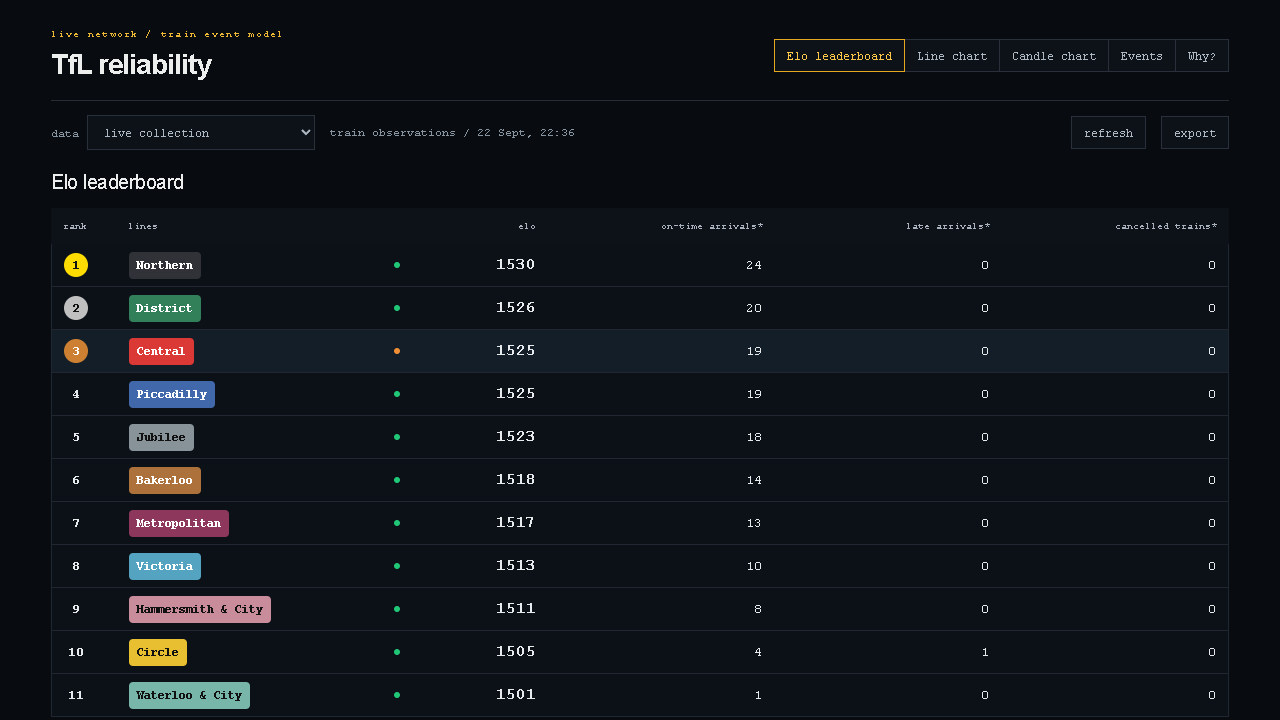
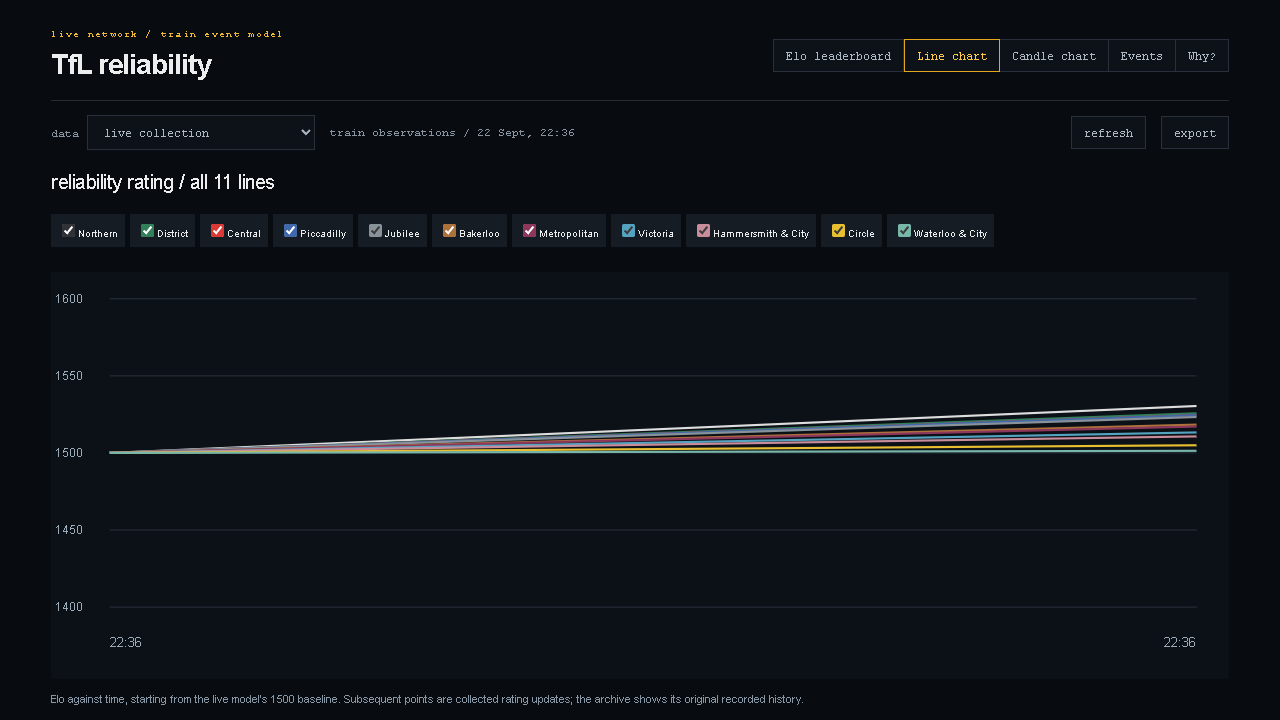
Lead with the eleven-line reliability history chart and retain the ranking below

diff --git a/examples/portfolio/index.html b/examples/portfolio/index.html
@@ -1,1 +1,1 @@
-<!doctype html><html lang="en"><meta charset="utf-8"><meta name="viewport" content="width=device-width,initial-scale=1"><title>TfL Train Event Elo Dashboard</title><link rel="stylesheet" href="style.css"><body><main><header><div><p class="eyebrow">live network / train event model</p><h1>TfL reliability</h1></div><nav aria-label="Dashboard views"><button class="active" data-view="leaderboard">Elo leaderboard</button><button data-view="history">Line chart</button><button data-view="candles">Candle chart</button><button data-view="events">Events</button><button data-view="why">Why?</button></nav></header><div class="toolbar"><label>data <select id="dataset"><option value="live">live collection</option><option value="archive">original hackathon archive</option></select></label><span id="updated">loading real observations...</span><button id="refresh">refresh</button><button id="download">export</button></div><section id="leaderboard" class="view"><h2>Elo leaderboard</h2><div class="board-heading"><span>rank</span><span>lines</span><span>elo</span><span>on-time <em>arrivals*</em></span><span>late <em>arrivals*</em></span><span>cancelled <em>trains*</em></span></div><div id="lines"></div><p class="legend"><i class="good"></i> Good service <i class="minor"></i> Minor delays <i class="delay"></i> Delays <i class="bad"></i> Severe delays / cancellations</p><p class="note" id="notice"></p></section><section id="history" class="view" hidden><h2>Line chart</h2><div id="line-toggles"></div><div id="history-chart"></div><p class="note">Recorded Elo against time. Only collected observations are connected.</p></section><section id="candles" class="view" hidden><h2>Candle chart</h2><label>line <select id="candle-line"></select></label><div id="candle-chart"></div><p class="note">Five-minute buckets: open, high, low and close of the observed ratings. Empty periods have no candle.</p></section><section id="events" class="view" hidden><h2>Train events</h2><div id="event-list"></div></section><section id="why" class="view" hidden><h2>Why score the Tube?</h2><p>Each line earns or loses rating from observed train-stop outcomes. The original hackathon dashboard compared arrivals, late arrivals and inferred cancellations, with historical line and candle charts.</p><p>The live collector samples TfL predictions three times, 20 seconds apart, every ten minutes. An arrival estimate requires at least two sightings and a prediction within 30 seconds of the stop. A late estimate means the ETA slipped over 60 seconds since its first sighting. These are sampled prediction-based estimates, not confirmed train movements or official punctuality figures.</p><p>Disappearing predictions are not sufficient evidence of cancellation. The live cancellation column stays zero unless supported by a confirmed source. The original archive retains the original inferred cancellation counts and its historical model.</p><p>The live model uses the original event gain/loss function, with cubic gravity toward 1500 and hard bounds of 100 and 3500. Peak-time outcomes receive more weight. It is Elo-style, not a claim of standard zero-sum chess Elo.</p><p><a href="https://devpost.com/software/tfl-elo-tracker">Original hackathon project</a> ? <a href="https://github.com/bento-boxing/Quantihack2026project/tree/tfl-live-elo">Original team source</a> ? <a href="data/health.json">automated audit</a></p></section><footer><a href="https://github.com/LolStar123/tfl-reliability">source code</a><a href="https://atul-kanodia-fieldnotes.atulswaggalicious.chatgpt.site">atul's projects</a><span id="connection"></span></footer></main><script type="module" src="app.mjs"></script></body></html>
+<!doctype html><html lang="en"><meta charset="utf-8"><meta name="viewport" content="width=device-width,initial-scale=1"><title>TfL Train Event Elo Dashboard</title><link rel="stylesheet" href="style.css"><body><main><header><div><p class="eyebrow">live network / train event model</p><h1>TfL reliability</h1></div><nav aria-label="Dashboard views"><button class="active" data-view="leaderboard">Elo leaderboard</button><button data-view="history">Line chart</button><button data-view="candles">Candle chart</button><button data-view="events">Events</button><button data-view="why">Why?</button></nav></header><div class="toolbar"><label>data <select id="dataset"><option value="live">live collection</option><option value="archive">original hackathon archive</option></select></label><span id="updated">loading real observations...</span><button id="refresh">refresh</button><button id="download">export</button></div><section id="leaderboard" class="view"><h2>Elo leaderboard</h2><div class="board-heading"><span>rank</span><span>lines</span><span>elo</span><span>on-time <em>arrivals*</em></span><span>late <em>arrivals*</em></span><span>cancelled <em>trains*</em></span></div><div id="lines"></div><p class="legend"><i class="good"></i> Good service <i class="minor"></i> Minor delays <i class="delay"></i> Delays <i class="bad"></i> Severe delays / cancellations</p><p class="note" id="notice"></p></section><section id="history" class="view" hidden><h2>reliability rating / all 11 lines</h2><div id="line-toggles"></div><div id="history-chart"></div><p class="note">Elo against time, starting from the live model's 1500 baseline. Subsequent points are collected rating updates; the archive shows its original recorded history.</p></section><section id="candles" class="view" hidden><h2>Candle chart</h2><label>line <select id="candle-line"></select></label><div id="candle-chart"></div><p class="note">Five-minute buckets: open, high, low and close of the observed ratings. Empty periods have no candle.</p></section><section id="events" class="view" hidden><h2>Train events</h2><div id="event-list"></div></section><section id="why" class="view" hidden><h2>Why score the Tube?</h2><p>Each line earns or loses rating from observed train-stop outcomes. The original hackathon dashboard compared arrivals, late arrivals and inferred cancellations, with historical line and candle charts.</p><p>The live collector samples TfL predictions three times, 20 seconds apart, every ten minutes. An arrival estimate requires at least two sightings and a prediction within 30 seconds of the stop. A late estimate means the ETA slipped over 60 seconds since its first sighting. These are sampled prediction-based estimates, not confirmed train movements or official punctuality figures.</p><p>Disappearing predictions are not sufficient evidence of cancellation. The live cancellation column stays zero unless supported by a confirmed source. The original archive retains the original inferred cancellation counts and its historical model.</p><p>The live model uses the original event gain/loss function, with cubic gravity toward 1500 and hard bounds of 100 and 3500. Peak-time outcomes receive more weight. It is Elo-style, not a claim of standard zero-sum chess Elo.</p><p><a href="https://devpost.com/software/tfl-elo-tracker">Original hackathon project</a> ? <a href="https://github.com/bento-boxing/Quantihack2026project/tree/tfl-live-elo">Original team source</a> ? <a href="data/health.json">automated audit</a></p></section><footer><a href="https://github.com/LolStar123/tfl-reliability">source code</a><a href="https://atul-kanodia-fieldnotes.atulswaggalicious.chatgpt.site">atul's projects</a><span id="connection"></span></footer></main><script type="module" src="app.mjs"></script></body></html>

diff --git a/tools/browser_audit.py b/tools/browser_audit.py
@@ -17,12 +17,14 @@ try:
   page.wait_for_function('window.__tfl?.ready')
   page.wait_for_function('!document.querySelector("#refresh").disabled')
   assert page.locator('.line').count()==11
+  assert page.locator('#history-chart polyline').count()==11
   assert page.evaluate('__tfl.rows.every(r=>r.elo>=100&&r.elo<=3500)')
   page.locator('#dataset').select_option('archive')
   page.locator('[data-view="history"]').click()
   assert page.locator('#history-chart polyline').count()==11
   page.locator('#line-toggles input').first.uncheck()
   assert page.locator('#history-chart polyline').count()==10
+  page.locator('#line-toggles input').first.check()
   page.locator('[data-view="candles"]').click()
   assert page.locator('#candle-chart rect').count()>1
   page.locator('#candle-line').select_option('victoria')
@@ -31,10 +33,12 @@ try:
   with page.expect_download() as dl:page.locator('#download').click()
   assert dl.value.suggested_filename.endswith('.csv')
   page.set_viewport_size({'width':1280,'height':720})
-  assert page.locator('.line').last.bounding_box()['y']+page.locator('.line').last.bounding_box()['height']<720,'all lines must fit landing viewport'
+  page.locator('[data-view="history"]').click()
+  assert page.locator('#history').is_visible()
+  assert page.locator('#history-chart').bounding_box()['y']<450,'history chart must be the landing view'
   page.screenshot(path=str(ROOT/'examples/portfolio/preview.png'))
   page.set_viewport_size({'width':390,'height':844});assert page.evaluate('document.documentElement.scrollWidth<=innerWidth+1')
-  assert page.locator('.line').last.bounding_box()['y']+page.locator('.line').last.bounding_box()['height']<844,'all lines must fit phone landing viewport'
+  assert page.locator('#history-chart').bounding_box()['y']<650,'history chart must lead on mobile'
   page.route('https://api.tfl.gov.uk/**',lambda r:r.abort())
   page.locator('#refresh').click();page.wait_for_function('!document.querySelector("#refresh").disabled')
   assert page.locator('.line').count()==11

diff --git a/README.md b/README.md
@@ -2,7 +2,7 @@
 
 **[Open the live leaderboard](https://lolstar123.github.io/tfl-reliability/)**
 
-All eleven Underground lines, ranked first. Coloured line badges, podium positions, arrival
+All eleven Underground lines on the landing time-series chart, with the ranked table directly below. Coloured line badges, podium positions, arrival
 counts, line history and five-minute candles restore the original hackathon dashboard.
 
 ![Live train-event leaderboard](examples/portfolio/preview.png)
